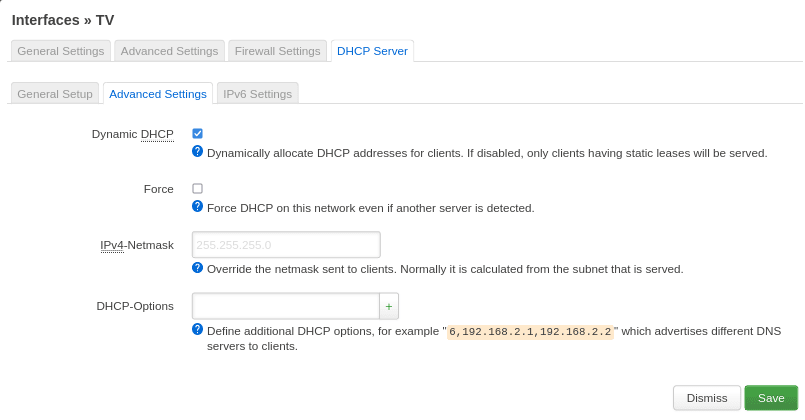
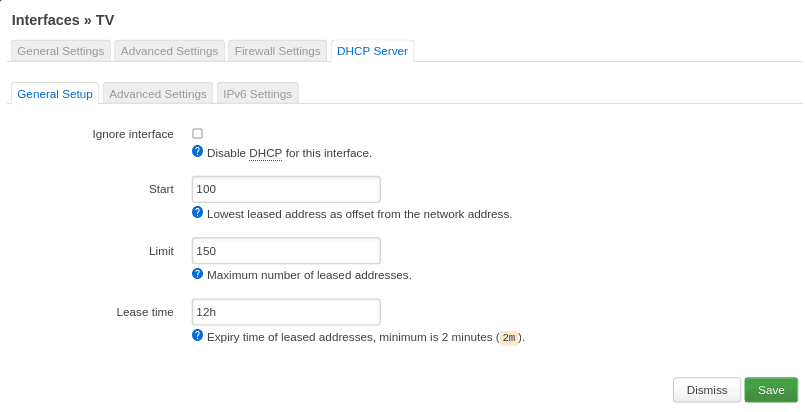
Use bridge for tv wifi

diff --git a/router/README.md b/router/README.md
@@ -284,6 +284,7 @@ After making changes over the web interface (aka `luci`), click on `Save` and cl
 ### System ⇨ System
 
 ```
+# /etc/config/system
 uci del system.ntp.enable_server
 uci del system.ntp.server
 uci set system.cfg01e48a.hostname='mimo'
@@ -325,6 +326,7 @@ Beware that you will only be able to login via SSH over port 50022 or whatever p
 ### Services ⇨ Recursive DNS
 
 ```
+# /etc/config/unbound
 uci set unbound.ub_main.enabled='1'
 uci set unbound.ub_main.validator='1'
 uci set unbound.ub_main.rebind_localhost='1'
@@ -341,6 +343,7 @@ uci del unbound.ub_main.query_min_strict
 Optional, but [recommended](https://www.kuketz-blog.de/empfehlungsecke/#dns):
 
 ```
+# /etc/config/unbound
 uci del unbound.fwd_google.server
 uci add_list unbound.fwd_google.server='5.1.66.255'
 uci add_list unbound.fwd_google.server='185.150.99.255'
@@ -373,6 +376,7 @@ uci set network.lan.ipaddr='192.168.0.1'
 ### Network ⇨ Interfaces ⇨ WAN
 
 ```
+# /etc/config/network
 uci set network.wan.proto='pppoe'
 uci set network.wan.username='XXX'
 uci set network.wan.password='XXX'
@@ -385,6 +389,7 @@ uci add_list network.wan.dns='127.0.0.1'
 ### Network ⇨ Interfaces ⇨ WAN6
 
 ```
+# /etc/config/network
 uci set network.wan6.reqaddress='try'
 uci set network.wan6.reqprefix='auto'
 uci set network.wan6.peerdns='0'
@@ -394,6 +399,7 @@ uci add_list network.wan6.dns='::1'
 ### Network ⇨ Wireless
 
 ```
+# /etc/config/wireless
 uci set wireless.radio0.htmode='VHT40'
 uci set wireless.radio0.channel='auto'
 uci set wireless.radio0.country='DE'
@@ -441,6 +447,7 @@ remote $ /etc/init.d/ucitrack restart
 Drop invalid packets:
 
 ```bash
+# /etc/config/firewall
 uci del firewall.cfg01e63d.syn_flood
 uci set firewall.cfg01e63d.synflood_protect='1'
 uci set firewall.cfg01e63d.drop_invalid='1'
@@ -512,13 +519,20 @@ Delete extraneous fstab entry:
 remote $ uci del fstab.@mount[1]
 ```
 
+Set `noatime` mount option:
+
+```bash
+remote $ uci set fstab.@mount[0].options="noatime"
+remote $ uci commit fstab.@mount[0]
+```
+
 Create mountpoint, use mountpoint and enable the fstab entry:
 
 ```bash
 remote $ mkdir /mnt/usb
 remote $ uci set fstab.@mount[0].target='/mnt/usb'
 remote $ uci set fstab.@mount[0].enabled='1'
-remote $ uci commit fstab
+remote $ uci commit fstab.@mount[0]
 ```
 
 Reboot your router and check whether the btrfs RAID has been mounted to `/mnt/usb`:
@@ -607,6 +621,7 @@ Disable IPv6:
 The resulting commands:
 
 ```
+# /etc/config/firewall
 uci add firewall zone # =cfg10dc81
 uci set firewall.@zone[-1].name='whitehouse'
 uci set firewall.@zone[-1].input='REJECT'
@@ -630,7 +645,9 @@ uci set firewall.@zone[-1].family='ipv4'
 ![wireguard interface](assets/interface_whitehouse_03.png)
 
 ```
+# /etc/config/firewall
 uci add_list firewall.cfg10dc81.network='whitehouse'
+# /etc/config/network
 uci set network.whitehouse=interface
 uci set network.whitehouse.proto='wireguard'
 uci add network wireguard_whitehouse # =cfg0b9cf3
@@ -654,6 +671,7 @@ uci set network.@wireguard_whitehouse[-1].persistent_keepalive='25'
 ![FW traffic rule certbot](assets/fw_traffic_rule_certbot_01.png)
 
 ```
+# /etc/config/firewall
 uci add firewall rule # =cfg1192bd
 uci set firewall.@rule[-1].name='certbot'
 uci set firewall.@rule[-1].family='ipv4'
@@ -672,6 +690,7 @@ uci set firewall.@rule[-1].extra='-m conntrack --ctstate NEW'
 ![FW traffic rule smtp](assets/fw_traffic_rule_smtp_01.png)
 
 ```
+# /etc/config/firewall
 uci add firewall rule # =cfg1292bd
 uci set firewall.@rule[-1].name='smtp'
 uci set firewall.@rule[-1].family='ipv4'
@@ -690,6 +709,7 @@ uci set firewall.@rule[-1].extra='-m conntrack --ctstate NEW'
 ![FW traffic rule imap](assets/fw_traffic_rule_imap_01.png)
 
 ```
+# /etc/config/firewall
 uci add firewall rule # =cfg1392bd
 uci set firewall.@rule[-1].name='imap'
 uci set firewall.@rule[-1].family='ipv4'
@@ -710,6 +730,7 @@ uci set firewall.@rule[-1].extra='-m conntrack --ctstate NEW'
 ![FW port forwarding certbot](assets/fw_port_forwarding_certbot_01.png)
 
 ```
+# /etc/config/firewall
 uci add firewall redirect # =cfg143837
 uci set firewall.@redirect[-1].target='DNAT'
 uci set firewall.@redirect[-1].name='certbot'
@@ -728,6 +749,7 @@ uci set firewall.@redirect[-1].reflection='0'
 ![FW port forwarding smtp](assets/fw_port_forwarding_smtp_01.png)
 
 ```
+# /etc/config/firewall
 uci add firewall redirect # =cfg153837
 uci set firewall.@redirect[-1].target='DNAT'
 uci set firewall.@redirect[-1].name='smtp'
@@ -746,6 +768,7 @@ uci set firewall.@redirect[-1].reflection='0'
 ![FW port forwarding imap](assets/fw_port_forwarding_imap_01.png)
 
 ```
+# /etc/config/firewall
 uci add firewall redirect # =cfg163837
 uci set firewall.@redirect[-1].target='DNAT'
 uci set firewall.@redirect[-1].name='imap'
@@ -764,6 +787,7 @@ uci set firewall.@redirect[-1].reflection='0'
 ![FW nat certbot](assets/fw_nat_certbot.png)
 
 ```
+# /etc/config/firewall
 uci add firewall nat # =cfg1793c8
 uci set firewall.@nat[-1].name='certbot'
 uci add_list firewall.@nat[-1].proto='tcp'
@@ -778,6 +802,7 @@ uci set firewall.@nat[-1].snat_ip='192.168.0.1'
 ![FW nat smtp](assets/fw_nat_smtp.png)
 
 ```
+# /etc/config/firewall
 uci add firewall nat # =cfg1893c8
 uci set firewall.@nat[-1].name='smtp'
 uci add_list firewall.@nat[-1].proto='tcp'
@@ -792,6 +817,7 @@ uci set firewall.@nat[-1].snat_ip='192.168.0.1'
 ![FW nat imap](assets/fw_nat_imap.png)
 
 ```
+# /etc/config/firewall
 uci add firewall nat # =cfg1993c8
 uci set firewall.@nat[-1].name='imap'
 uci add_list firewall.@nat[-1].proto='tcp'
@@ -809,19 +835,33 @@ Don't forget to set the IP of the vServer:
 
 ```
 # make mail server accessible to lan in case of internet downtime
-iptables -t nat -A zone_lan_prerouting -s 192.168.0.0/24 -d <PUBLIC STATIC IP OF VSERVER> -p tcp -m multiport --dports 50587,50993 -j DNAT --to-destination 192.168.0.2 -m comment --comment "mail reflection"
-iptables -t nat -A zone_lan_postrouting -s 192.168.0.0/24 -d 192.168.0.2 -p tcp -m multiport --dports 50587,50993 -j SNAT --to 192.168.0.1 -m comment --comment "mail reflection"
+iptables -t nat -A prerouting_lan_rule -d <PUBLIC STATIC IP OF VSERVER> -p tcp -m multiport --dports 50587,50993 -j DNAT --to-destination 192.168.0.2 -m comment --comment "mail reflection"
+iptables -t nat -A postrouting_lan_rule -d 192.168.0.2 -p tcp -m multiport --dports 50587,50993 -j SNAT --to-source 192.168.0.1 -m comment --comment "mail reflection"
 ```
+
+#### Network ⇨ Hostnames
+
+Add an entry for the public static IP address of the vServer. Otherwise, the two iptables rules in [this chapter](#network--firewall--custom-rules-reflection) won't work.
 
 ### Guest Wifi for Smart-TV
 
 I like to have my Smart-TV in a guest Wifi, separated from my LAN.
+
+#### Network ⇨ Interfaces ⇨ Devices
+
+```
+# /etc/config/network
+uci add network device # =cfg0c0f15
+uci set network.@device[-1].type='bridge'
+uci set network.@device[-1].name='br-tv'
+```
 
 #### Network ⇨ Firewall ⇨ "General Settings"
 
 Frist, I create a firewall zone as shown in [Network ⇨ Firewall ⇨ "General Settings"](#network--firewall--general-settings-1). Just replace "whitehouse" with "tv", don't disable IPv6 and allow ingoing traffic:
 
 ```
+# /etc/config/firewall
 uci add firewall zone # =cfg1adc81
 uci set firewall.@zone[-1].name='tv'
 uci set firewall.@zone[-1].input='ACCEPT'
@@ -845,22 +885,30 @@ Create the `tv` interface:
 
 ![tv interface](assets/interface_tv_05.png)
 
+![tv interface](assets/interface_tv_06.png)
+
+![tv interface](assets/interface_tv_07.png)
+
 ```
+# /etc/config/dhcp
 uci set dhcp.tv=dhcp
 uci set dhcp.tv.interface='tv'
 uci set dhcp.tv.start='100'
 uci set dhcp.tv.limit='150'
 uci set dhcp.tv.leasetime='12h'
 uci set dhcp.tv.ra='server'
-uci set dhcp.tv.dhcpv6='server'
 uci add_list dhcp.tv.ra_flags='managed-config'
 uci add_list dhcp.tv.ra_flags='other-config'
-uci set network.tv.ip6assign='60'
+uci set dhcp.tv.dhcpv6='server'
+# /etc/config/firewall
 uci add_list firewall.cfg1adc81.network='tv'
+# /etc/config/network
 uci set network.tv=interface
 uci set network.tv.proto='static'
+uci set network.tv.device='br-tv'
 uci set network.tv.ipaddr='192.168.1.1'
 uci set network.tv.netmask='255.255.255.0'
+uci set network.tv.ip6assign='60'
 ```
 
 Connect to the router via SSH and enable DHCPv4:
@@ -876,6 +924,9 @@ remote $ /etc/init.d/odhcpd restart
 The wireless network needs to be created:
 
 ```
+# /etc/config/network
+uci set network.tv.type='bridge'
+# /etc/config/wireless
 uci set wireless.wifinet2=wifi-iface
 uci set wireless.wifinet2.device='radio0'
 uci set wireless.wifinet2.mode='ap'
@@ -899,6 +950,7 @@ uci set wireless.wifinet3.network='tv'
 Finally, I allow traffic to be forwarded from `tv` zone to `wan` zone. For this purpose, edit `tv` zone and set `wan` at `Allow forward to destination zones:`.
 
 ```
+# /etc/config/firewall
 uci add firewall forwarding # =cfg1bad58
 uci set firewall.@forwarding[-1].src='tv'
 uci set firewall.@forwarding[-1].dest='wan'
@@ -915,7 +967,8 @@ We need to assign "LAN1" port to a separate VLAN which has port number 3 in belo
 ![cam switch](assets/switch.png)
 
 ```
-uci add network switch_vlan # =cfg0d1ec7
+# /etc/config/network
+uci add network switch_vlan # =cfg0e1ec7
 uci set network.@switch_vlan[-1].device='switch0'
 uci set network.@switch_vlan[-1].vlan='3'
 uci set network.cfg081ec7.vid='1'
@@ -931,6 +984,7 @@ uci set network.@switch_vlan[-1].vid='3'
 A firewall zone as shown in [Network ⇨ Firewall ⇨ "General Settings"](#network--firewall--general-settings-1) needs to be created. Just replace "whitehouse" with "cam", don't disable IPv6 and allow ingoing traffic:
 
 ```
+# /etc/config/firewall
 uci add firewall zone # =cfg1cdc81
 uci set firewall.@zone[-1].name='cam'
 uci set firewall.@zone[-1].input='ACCEPT'
@@ -940,25 +994,28 @@ uci set firewall.@zone[-1].forward='REJECT'
 
 #### Network ⇨ Interfaces
 
-Create the `cam` interface as shown in [Network ⇨ Interfaces](#network--interfaces-1). But, change the IP address and assign the "LAN1" port to the bridge.
+Create the `cam` interface as shown in [Network ⇨ Interfaces](#network--interfaces-1). But, change the IP address and assign the interface to device `eth1.3`.
 
 ```
+# /etc/config/dhcp
 uci set dhcp.cam=dhcp
 uci set dhcp.cam.interface='cam'
 uci set dhcp.cam.start='100'
 uci set dhcp.cam.limit='150'
 uci set dhcp.cam.leasetime='12h'
 uci set dhcp.cam.ra='server'
-uci set dhcp.cam.dhcpv6='server'
 uci add_list dhcp.cam.ra_flags='managed-config'
 uci add_list dhcp.cam.ra_flags='other-config'
-uci set network.cam.ip6assign='60'
+uci set dhcp.cam.dhcpv6='server'
+# /etc/config/firewall
 uci add_list firewall.cfg1cdc81.network='cam'
+# /etc/config/network
 uci set network.cam=interface
 uci set network.cam.proto='static'
 uci set network.cam.device='eth1.3'
 uci set network.cam.ipaddr='192.168.2.1'
 uci set network.cam.netmask='255.255.255.0'
+uci set network.cam.ip6assign='60'
 ```
 
 Connect to the router via SSH and enable DHCPv4:
@@ -974,6 +1031,7 @@ remote $ /etc/init.d/odhcpd restart
 Finally, I allow traffic to be forwarded from `cam` zone to `wan` zone. For this purpose, edit `cam` zone and set `wan` at `Allow forward to destination zones:`.
 
 ```
+# /etc/config/firewall
 uci add firewall forwarding # =cfg1dad58
 uci set firewall.@forwarding[-1].src='cam'
 uci set firewall.@forwarding[-1].dest='wan'
